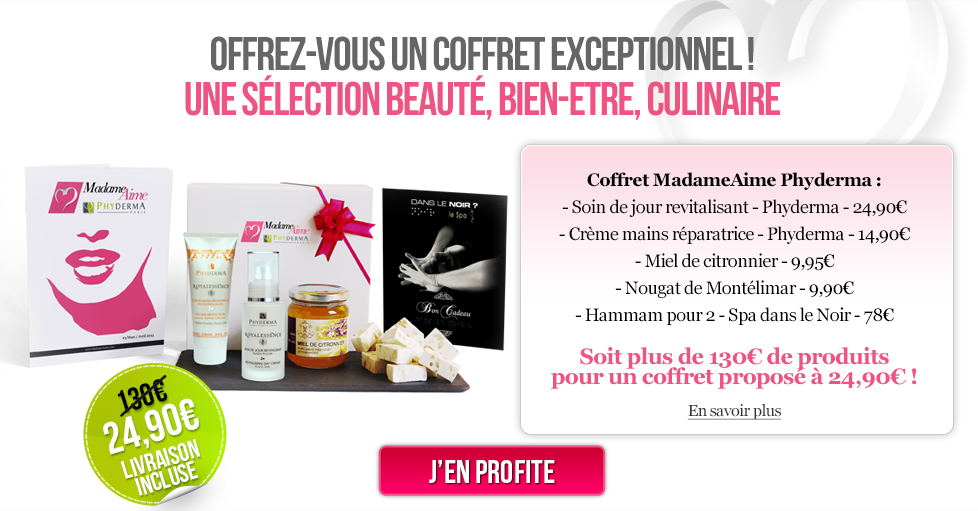
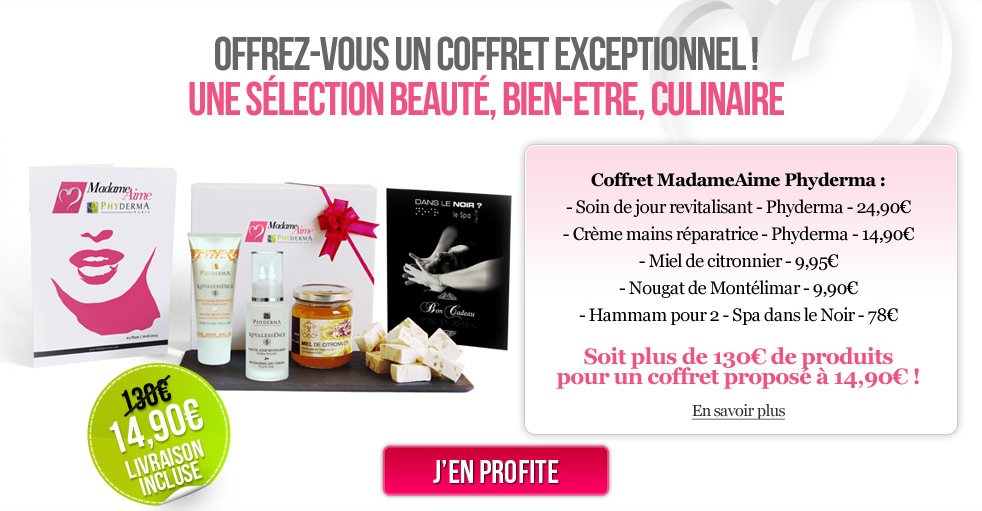
Update landing page

diff --git a/www/mmm/templates/landing/madameaime-phyderma.html b/www/mmm/templates/landing/madameaime-phyderma.html
@@ -4,11 +4,11 @@
 {% block mmm_content %}
 <div class="boring" style="padding: 0 0 1px 0; text-align: center; position: relative;">
   <a href="{% url "boxes/2013-mar" %}">
-    <img src="{{ STATIC_URL }}img/landing/madameaime-phyderma.png" alt="" />
+    <img src="{{ STATIC_URL }}img/landing/madameaime-phyderma.png?0" alt="" />
   </a>
   <form method="post" action="{% url 'emarket:shopping-cart.add' %}" style="position: absolute; bottom: 0; left: 0;">
     {% csrf_token %}
-    <input type="hidden" name="sale_id" value="5" />
+    <input type="hidden" name="sale_id" value="13" />
     <button style="border: 0 none; position: absolute; bottom: 5px; left: 365px; width: 255px; height: 75px; background: transparent;" type="submit">&nbsp;</button>
   </form>
 </div>
